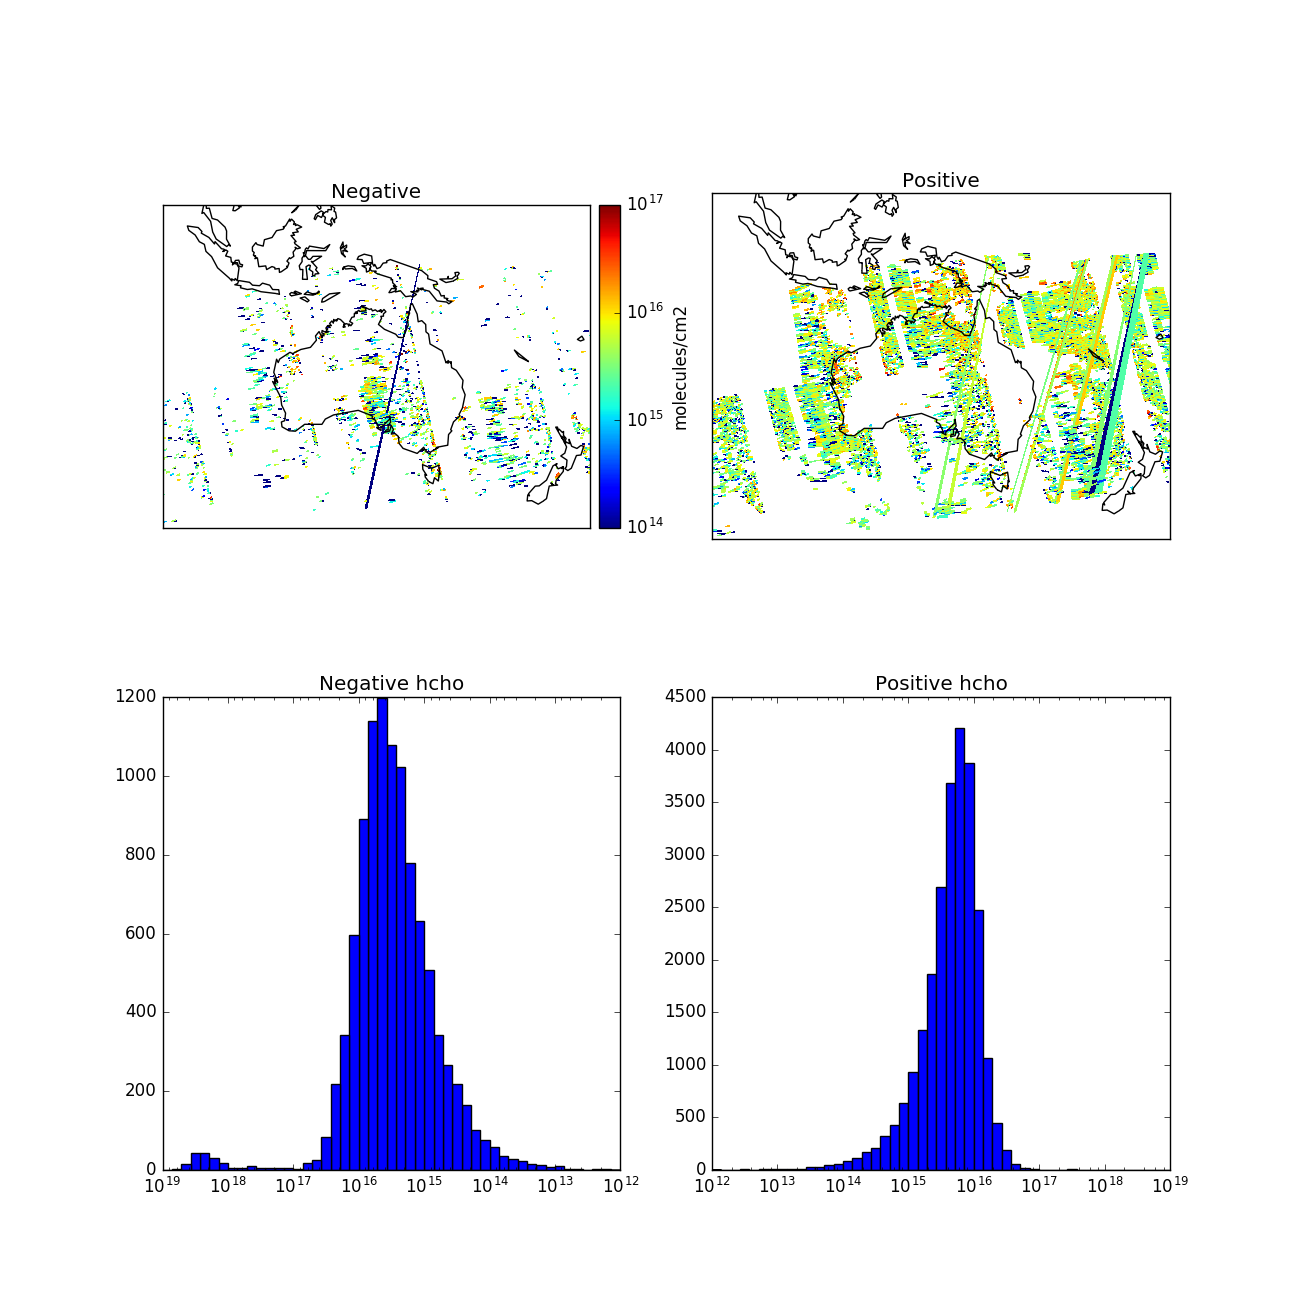
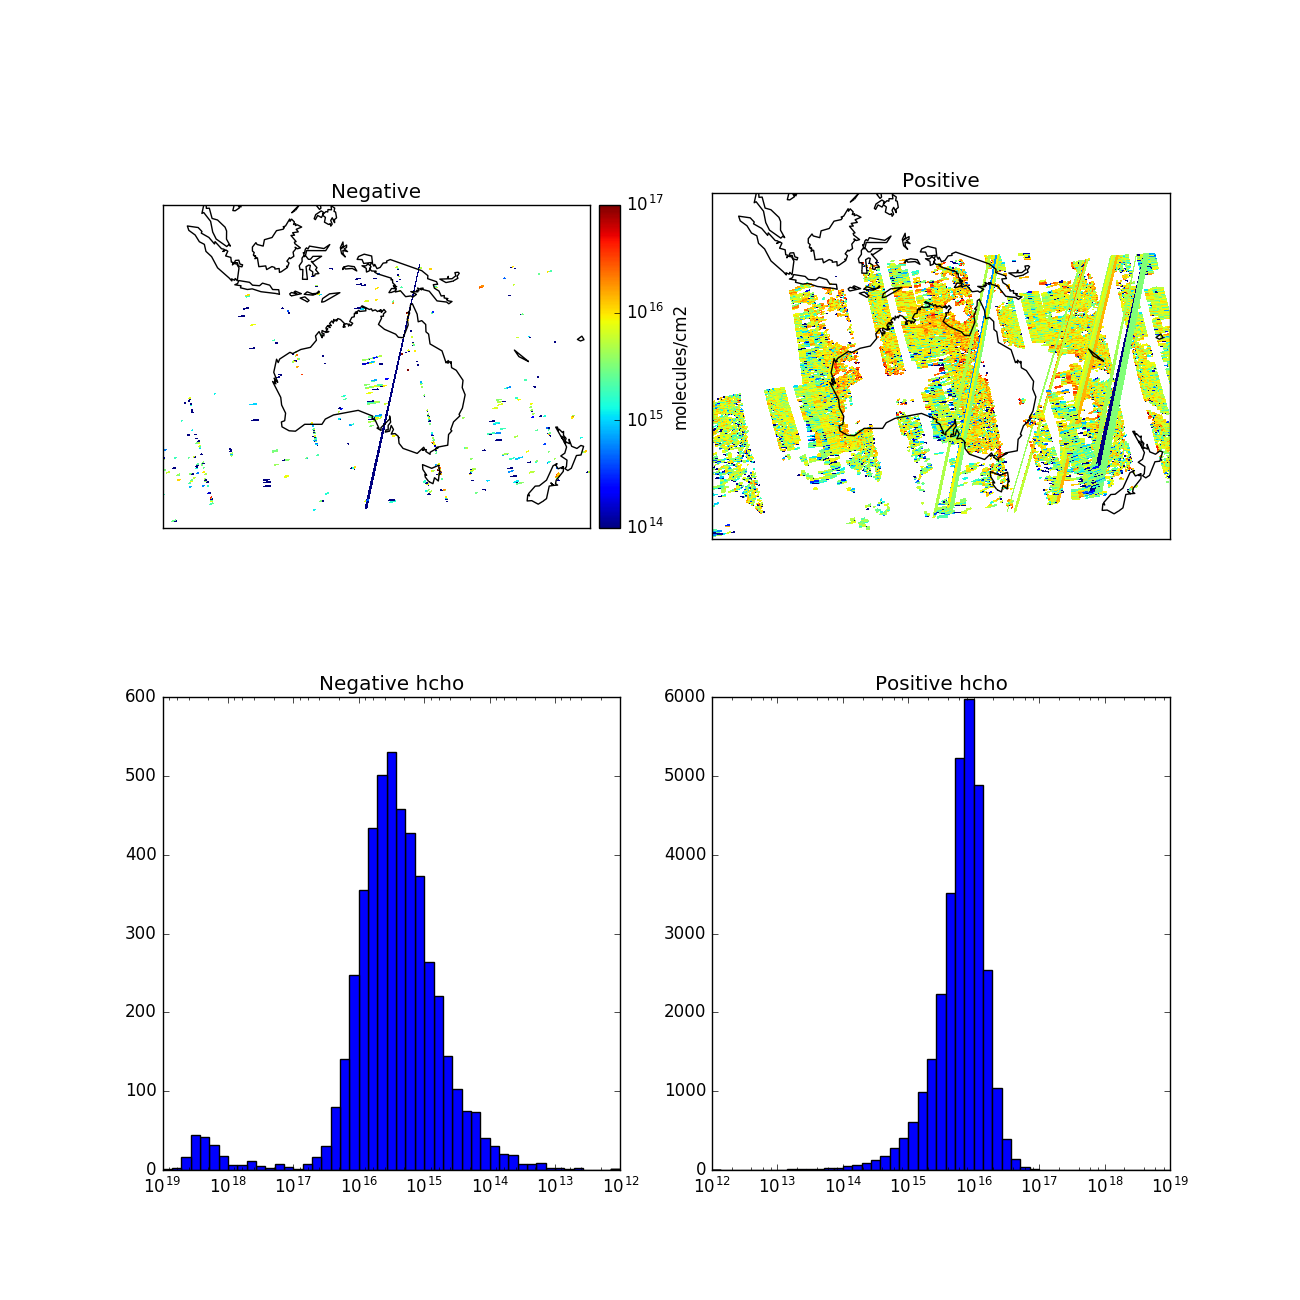
Also ran using RSC and ColumnAmount

diff --git a/plot_stuff.py b/plot_stuff.py
@@ -190,12 +190,12 @@ def plot_25_days(start=datetime(2012,1,1),rsc=True,cloudy=0.4):
     plt.close()
     
 
-def examine_single_day(day=datetime(2012,1,14),cloudy=0.4):
+def examine_single_day(day=datetime(2012,1,14),cloudy=0.4,rsc=True):
     f,axes=plt.subplots(2,2,figsize=(13,13))
     
     plt.sca(axes[0,0])
     
-    data=Day(day)
+    data=Day(day,rsc=rsc,cloudy=cloudy)
     
     ymdstr="%4d%02d%02d"%(day.year,day.month,day.day)
     # basemap over area of interest
@@ -250,7 +250,7 @@ def examine_single_day(day=datetime(2012,1,14),cloudy=0.4):
     plt.hist(plus,bins=logbins)
     plt.xscale("log")
     plt.title('Positive hcho')
-    plt.savefig("images/Swath_%s"%ymdstr)
+    plt.savefig("images/Swath%s_%s"%(['','rsc'][rsc],ymdstr))
     plt.close()
 
 def negative_swath(day=datetime(2012,1,14)):
@@ -369,7 +369,8 @@ def plot_time_series():
 
 if __name__=="__main__":
     print("running")
-    examine_single_day(cloudy=0.4)
+    examine_single_day(cloudy=0.4, rsc=True)
+    examine_single_day(cloudy=0.4, rsc=False)
     #negative_swath()
     #plot_25_days(rsc=True,cloudy=0.1)
     #compare_to_non_subset()
